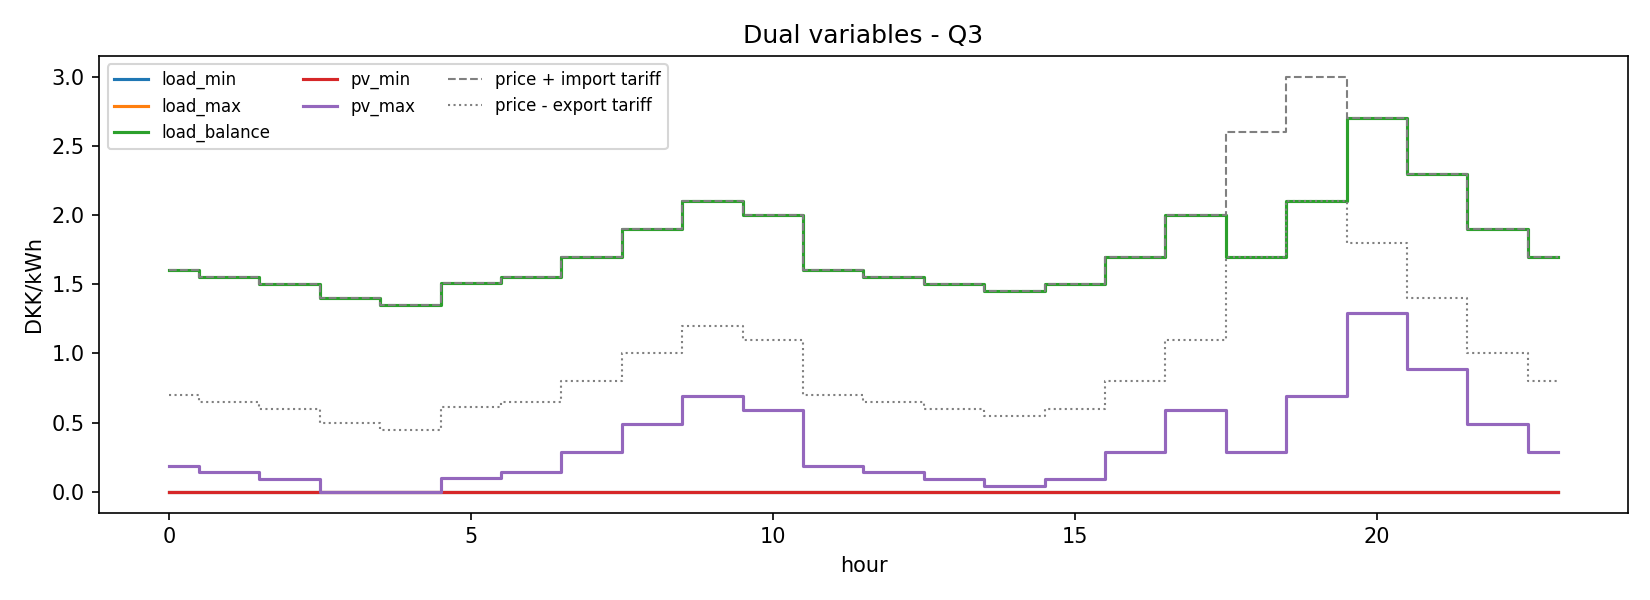
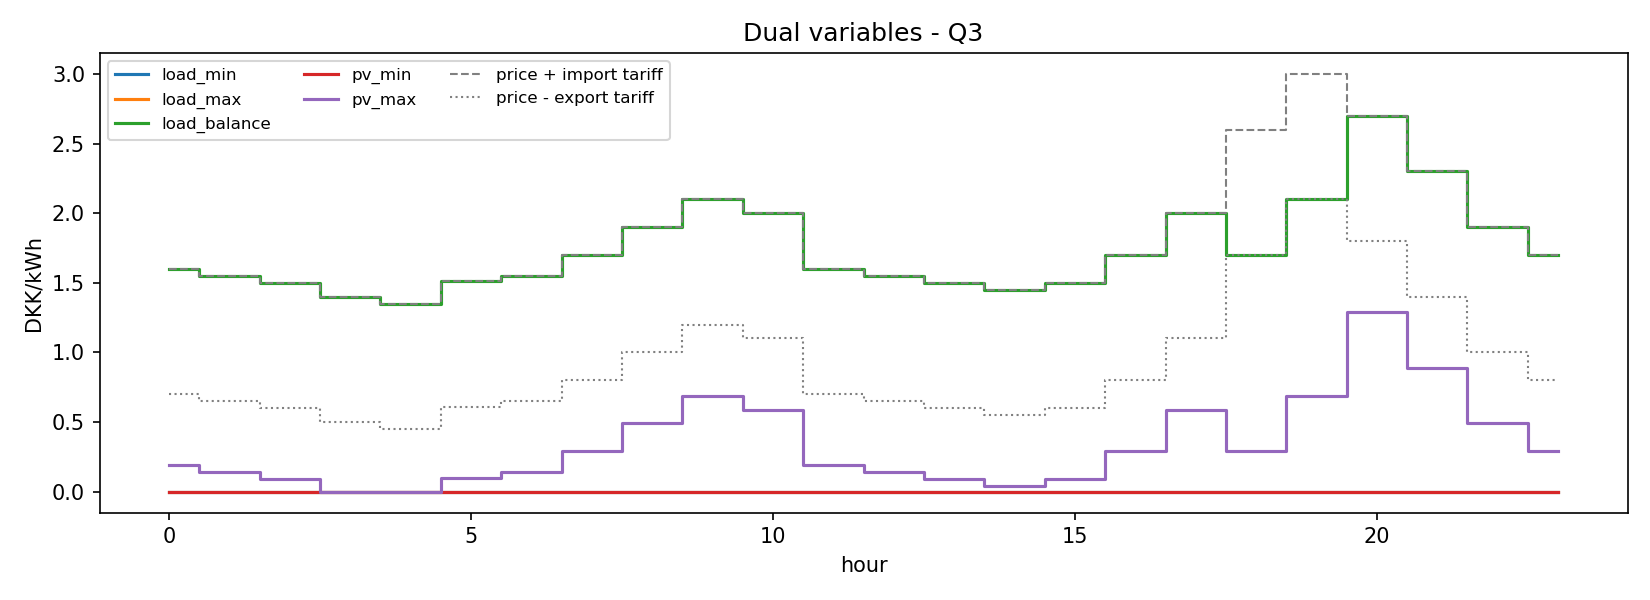
Sensitivity analysis of 3g added

diff --git a/src/model_Q3_bat_sensitivity.py b/src/model_Q3_bat_sensitivity.py
@@ -1,0 +1,164 @@
+"""Optional Q3_battery sensitivity analyses.
+
+Call run_sensitivity(data, output_dir) from main.py after the base case.
+No changes to the optimization models or JSON files are required.
+"""
+from dataclasses import replace
+from pathlib import Path
+
+import matplotlib.pyplot as plt
+import numpy as np
+import pandas as pd
+
+from .model_Q3_bat import FlexibleConsumerModel as BatteryModel
+
+
+PRICE_FACTORS = (0.0, 0.5, 1.0, 1.5, 2.0)
+CAPACITIES_KWH = np.arange(2.0, 11.0, 1.0)
+
+
+def _solve(data):
+    return BatteryModel(data).build().solve()
+
+
+def _battery_losses(result, data):
+    """Total energy lost in battery conversions, in kWh (one-hour intervals)."""
+    h = result.hourly
+    return float(
+        ((1.0 - data.battery_charging_efficiency) * h["P_ch"]
+         + (1.0 / data.battery_discharging_efficiency - 1.0) * h["P_dis"]).sum()
+    )
+
+def _plot_price(df, path):
+    fig, ax1 = plt.subplots(figsize=(10, 4.5))
+    ax2 = ax1.twinx()
+    x = df["alpha"]
+
+    ax1.plot(x, -df["net_utility"], "o-", color="C0", label="Total daily cost")
+    ax2.plot(x, df["disutility"], "s-",color="C3", label="Consumption disutility")
+
+    ax1.set(xlabel="Electricity-price spread factor α", ylabel="Total daily cost [DKK/day]", title="Sensitivity to electricity-price variation")
+    ax2.set_ylabel("Consumption disutility [DKK/day]")
+    ax1.set_xticks(x)
+
+    lines1, labels1 = ax1.get_legend_handles_labels()
+    lines2, labels2 = ax2.get_legend_handles_labels()
+
+    ax1.legend(lines1 + lines2, labels1 + labels2, fontsize=8, ncol=2, loc="upper center", bbox_to_anchor=(0.5, -0.17))
+
+    fig.tight_layout()
+    fig.savefig(path, dpi=200, bbox_inches="tight")
+    plt.close(fig)
+
+
+def _plot_capacity(df, path):
+    fig, ax1 = plt.subplots(figsize=(10, 4.5))
+    ax2 = ax1.twinx()
+    x = df["capacity_kWh"]
+    ax1.plot(x, -df["net_utility"], "o-", color="C0", label="Total daily cost")
+    ax2.plot(x, df["battery_losses_kWh"], "s-", color="C3",
+             label="Battery energy losses")
+    ax1.set(xlabel="Battery capacity [kWh]", ylabel="Total daily cost [DKK/day]",
+            title="Sensitivity to battery capacity")
+    ax2.set_ylabel("Battery energy losses [kWh/day]")
+    ax1.set_xticks(x)
+    lines1, labels1 = ax1.get_legend_handles_labels()
+    lines2, labels2 = ax2.get_legend_handles_labels()
+    ax1.legend(lines1 + lines2, labels1 + labels2, fontsize=8,
+               loc="upper center", bbox_to_anchor=(0.5, -0.17), ncol=2)
+    fig.tight_layout()
+    fig.savefig(path, dpi=200, bbox_inches="tight")
+    plt.close(fig)
+    
+
+def _plot_price_profiles(data, path):
+    """Plot hourly electricity prices for each spread factor."""
+
+    base_prices = np.asarray(data.energy_price, dtype=float)
+    mean_price = float(base_prices.mean())
+    hours = np.asarray(data.hours)
+
+    fig, ax = plt.subplots(figsize=(10, 4.5))
+
+    for alpha in PRICE_FACTORS:
+        varied_prices = mean_price + alpha * (base_prices - mean_price)
+
+        ax.step(hours, varied_prices, where="mid", linewidth=2.2 if alpha == 1.0 else 1.5, color="C3" if alpha == 1.0 
+            else {0.0: "C0",
+                  0.5: "C1",
+                  1.5: "C2",
+                  2.0: "C4"
+            }[alpha], label=fr"$\alpha = {alpha:g}$")
+
+    ax.set(xlabel="Hour", ylabel="Electricity price [DKK/kWh]", title="Electricity-price profiles for different spread factors")
+
+    ax.set_xticks(range(0, 24, 2))
+    ax.grid(True, alpha=0.25)
+    ax.legend(fontsize=9, ncol=5, loc="upper center", bbox_to_anchor=(0.5, -0.15))
+
+    fig.tight_layout()
+    fig.savefig(path, dpi=200, bbox_inches="tight")
+    plt.close(fig)
+    
+
+def run_sensitivity(data, out):
+    """Run price-spread and capacity studies; save figures and CSV summaries."""
+    out = Path(out)
+    out.mkdir(parents=True, exist_ok=True)
+
+    if data.battery_capacity_kWh is None:
+        raise ValueError("Sensitivity analysis requires a battery case")
+
+    # -------------------------------------------------------
+    # 1. Electricity-price sensitivity (battery only)
+    # -------------------------------------------------------
+    base_prices = np.asarray(data.energy_price, dtype=float)
+    mean_price = float(base_prices.mean())
+    _plot_price_profiles(data, out / "sensitivity_price_profiles.png")
+
+    price_rows = []
+
+    for alpha in PRICE_FACTORS:
+        varied_prices = mean_price + alpha * (base_prices - mean_price)
+
+        if np.any(varied_prices < 0):
+            raise ValueError(f"alpha={alpha} produces negative prices")
+
+        scenario = replace(data, energy_price=varied_prices.copy())
+        result = _solve(scenario)
+
+        price_rows.append({"alpha": alpha, "net_utility": result.objective, "disutility": result.disutility,})
+
+    price_df = pd.DataFrame(price_rows)
+    price_df.to_csv(out / "sensitivity_price.csv", index=False)
+    _plot_price(price_df, out / "sensitivity_price.png")
+
+    # -------------------------------------------------------
+    # 2. Battery-capacity sensitivity (unchanged)
+    # -------------------------------------------------------
+    capacity_rows = []
+
+    for capacity in CAPACITIES_KWH:
+        scenario = replace(data, battery_capacity_kWh=capacity, battery_initial_soc_kWh=2.0)
+
+        result = _solve(scenario)
+
+        capacity_rows.append({
+            "capacity_kWh": capacity,
+            "net_utility": result.objective,
+            "battery_losses_kWh": _battery_losses(result, scenario),
+            "disutility": result.disutility,
+            "simultaneous_hours": int((
+                (result.hourly["P_ch"] > 1e-6)
+                & (result.hourly["P_dis"] > 1e-6)
+            ).sum()),
+        })
+
+    capacity_df = pd.DataFrame(capacity_rows)
+    capacity_df.to_csv(out / "sensitivity_capacity.csv", index=False)
+    _plot_capacity(capacity_df, out / "sensitivity_capacity.png")
+
+    print("\nPrice sensitivity:\n", price_df.round(3).to_string(index=False))
+    print("\nCapacity sensitivity:\n", capacity_df.round(3).to_string(index=False))
+
+    return price_df, capacity_df

diff --git a/main.py b/main.py
@@ -20,6 +20,7 @@ from src.model_Q2_lin import FlexibleConsumerModel as Q2LinModel, Results as Q2L
 from src.model_Q2_qua import FlexibleConsumerModel as Q2QuaModel, Results as Q2QuaResults
 from src.model_Q3 import FlexibleConsumerModel as Q3Model, Results as Q3Results
 from src.model_Q3_bat import FlexibleConsumerModel as Q3BatModel, Results as Q3BatResults
+from src.model_Q3_bat_sensitivity import run_sensitivity
 from src.plotting import plot_battery, plot_duals, plot_inputs, plot_scenario_comparison, plot_schedule
 from src.scenarios import scale_prices, scale_pv, set_tariffs
 
@@ -93,6 +94,7 @@ def main() -> None:
     parser = argparse.ArgumentParser(description=__doc__, formatter_class=argparse.RawDescriptionHelpFormatter)
     parser.add_argument("--question", default="Q1_caseA", choices=list_questions(), help="data case to use")
     parser.add_argument("--scenarios", action="store_true", help="also run the example sensitivity scenarios")
+    parser.add_argument("--sensitivity", action="store_true", help="Run Q3 battery sensitivity analyses")
     parser.add_argument("--show", action="store_true", help="open the figures in a window")
     args = parser.parse_args()
 
@@ -104,6 +106,10 @@ def main() -> None:
     base = run_base_case(args.question, out, args.show)
     if args.scenarios and base is not None:
         run_scenarios(args.question, out)
+    if args.sensitivity:
+        if args.question != "Q3_battery":
+            parser.error("--sensitivity is only available for Q3_battery")
+        run_sensitivity(load_question(args.question), out)
     print(f"\nOutputs written to {out}")
 
 

diff --git a/src/model_Q3_bat.py b/src/model_Q3_bat.py
@@ -206,7 +206,7 @@ class FlexibleConsumerModel:
         #Energy bounds constraints
         #self.con["soc_min"] = m.addConstrs((E_bat[t] >= 0 for t in T), name="soc_min")
         self.con["soc_max"] = m.addConstrs((E_bat[t] <= d.battery_capacity_kWh for t in T), name="soc_max")
-        E_end_min = 0.5 * d.battery_capacity_kWh  # Example: 50% reserve
+        E_end_min = 2.0 #0.5 * d.battery_capacity_kWh  # Example: 50% reserve
         self.con["soc_final"] = m.addConstr(E_bat[T.stop-1] >= E_end_min, name="soc_final")
         
         #Power bounds constraints
